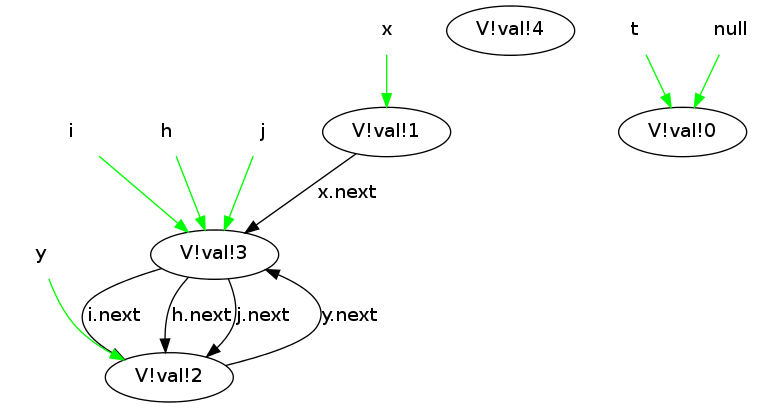
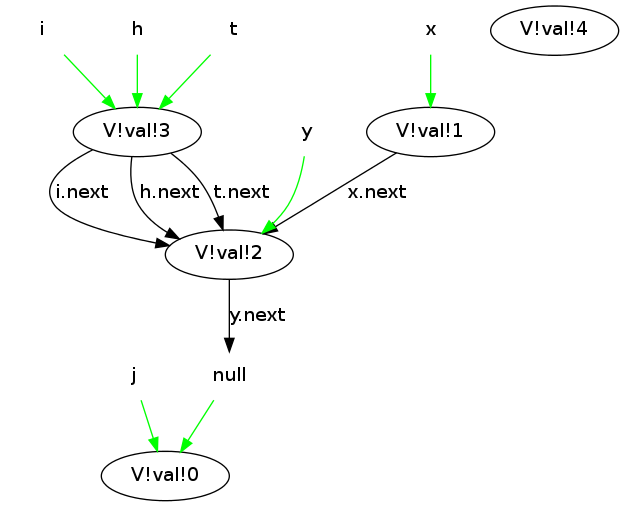
changing implementation to concrete nodes

diff --git a/src/opSemantics.py b/src/opSemantics.py
@@ -17,6 +17,7 @@ def general_stmt(stmt,state):
     else:
         print 'Graph Before statement:', stmt
         draw_graph( 'file1', state )
+        raw_input("Press Enter to continue...")
         
         if curStmt == 'x:=y':
             ass_stmt(stmt,state)
@@ -44,10 +45,8 @@ def general_stmt(stmt,state):
 
 
 def comma_stmt(stmt,state):
-    #print 'comma_stmt', stmt
     for i in stmt.subtrees:
         general_stmt(i,state)
-    #print 'comma end'
 
 
 def if_stmt(stmt,state):
@@ -68,7 +67,6 @@ def if_stmt(stmt,state):
 
 
 def while_stmt(stmt,state):
-    print 'while stmt', stmt
     while_cond   = stmt.subtrees[0]
     #the invariant I is in between here
     print 'the invariant I:=', stmt.subtrees[1]
@@ -80,20 +78,8 @@ def while_stmt(stmt,state):
 
 # x := y
 def ass_stmt(stmt,state):    
-    x   = stmt.subtrees[0].root
-    y   = stmt.subtrees[1].root
-    rel = nstar_relation_map_get(state)
-    for r in rel:
-        a     = r[0]
-        b     = r[1]
-        rel_r = nstar_relation_tuple_value_get(state, r)        
-        if y == b:
-            i  = a                        
-            nstar_relation_value_set(state, i, x, rel_r) #rel[ix] = rel[r]            
-        elif y == a:
-            i  = b          
-            nstar_relation_value_set(state, x, i, rel_r) #rel[xi] = rel[r]
-    
+    x      = stmt.subtrees[0].root
+    y      = stmt.subtrees[1].root
     y_intp = interpretation_get(state,y)
     interpretation_set(state,x,y_intp)
            
@@ -103,42 +89,34 @@ def ass_stmt(stmt,state):
 def ass_new_ptr(stmt,state):
     #print 'new ptr: ', stmt
     x   = stmt.subtrees[0].root    
-    rel = nstar_relation_map_get(state)##TODO need to traverse all states
-    for r in rel:
-        a = r[0]
-        b = r[1]
-        if ((x == a) or (x == b)) and ( a != b ):
-            nstar_relation_tuple_value_set(state, r, False)#rel[r] = False
+    # create new concrete node, which is false to all
+    concrete_intp   = create_node(state)
+    # map x to node
+    interpretation_set(state, x, concrete_intp )
+    
             
     
         
-def p_next_plus(state,n_ptr,s,t):
-    rel    =  state[n_ptr]
-    st     =  s, t    
+def p_next_plus(state,n_ptr,s,t):    
+    rel_st =  nstar_pointer_value_get(state,s,t)    
     is_eq  =  is_equal_intrepretation(state,s,t)
-    result =  rel[st] and (not is_eq)
+    result =  rel_st and (not is_eq)
     return result 
 
 
 # a->b is equiv to (~a)|b
 # if t is the minimal in relation to y: return true
 # else return false
-def p_next(state,n_ptr,s,t):
-    rel         =  state[n_ptr]
+def p_next(state,n_ptr,s,t):    
     result      =  p_next_plus(state,n_ptr,s,t)
     if result:
         rvars       = state_all_real_vars_get(state)
-        print 's and t are different' , rvars, s ,t 
+        #print 's and t are different' , rvars, s ,t 
         for gamma in rvars:
-            lhs       = p_next_plus(state,n_ptr,s,gamma)
-            print lhs, 'pnext plus' , s, gamma
-            gamma_t   = gamma, t            
-            rhs       = rel[gamma_t]
-            #rhs       = rel[t_gamma]
+            lhs       =  p_next_plus(state,n_ptr,s,gamma)
+            rhs       =  nstar_pointer_value_get(state,gamma,t)            
             lhs_implies_rhs = (not lhs) or rhs
-            #lhs_implies_rhs = (lhs and rhs) or ((not lhs)) 
-            result    = result and lhs_implies_rhs
-            print 'lhs ', lhs,'rhs ',rhs, gamma_t       
+            result    = result and lhs_implies_rhs                   
             if not result:
                 print 'for s=',s,'t-is not the minimal node=',t,'gamma=',gamma                
                 return False
@@ -177,7 +155,7 @@ def next_node_get(y,n_ptr,state):
 #then we find the minimal var among them - e.g the one
 #who is not reachable by others.
 def rhs_next_ptr_stmt(stmt,state):
-    print stmt
+    print 'rhs_next_ptr_stmt', stmt
     x     = stmt.subtrees[0].root
     y     = stmt.subtrees[1].root    
     n_ptr = nstar_relation_name_get()
@@ -204,27 +182,30 @@ def lhs_next_ptr_null_stmt(stmt,state):
     #not good enough, next field is of type adt.tree.Tree
     #use str(type(next_field)) to find out
     #rel_name  =  stmt.subtrees[1].root
-    n_ptr = nstar_relation_name_get()    
+    n_ptr     = nstar_relation_name_get()    
     rel       = relation_map_get(state, n_ptr)
+    cx        = interpretation_get(state, x)
     for r in rel:
         a = r[0]
         b = r[1]
-        rel_ax = nstar_relation_value_get(state, a, x)
-        rel_bx = nstar_relation_value_get(state, b, x)
-        rel_r  = nstar_relation_tuple_value_get(state, r)
+        rel_ax = nstar_concrete_value_get(state, a, cx)
+        rel_bx = nstar_concrete_value_get(state, b, cx)
+        rel_r  = nstar_concrete_value_get(state, r)
         res    = rel_r and ( (not rel_ax) or rel_bx )
-        nstar_relation_tuple_value_set(state, r, res )#rel[r] = rel_r & ( ~rel_ax | rel_bx )         
+        nstar_concrete_tuple_value_set(state, r, res )#rel[r] = rel_r & ( ~rel_ax | rel_bx )         
         
                 
              
 # x.next := y       
 def lhs_next_ptr_ass_stmt(stmt,state):
     x = stmt.subtrees[0].root
-    n = stmt.subtrees[1].root
-    y = stmt.subtrees[2].root
+    #n = stmt.subtrees[1].root
+    y = stmt.subtrees[2].root    
+    rel  = nstar_relation_map_get(state)   
+    n_yx = nstar_pointer_value_get(state,y,x)
     
-    rel  = state[n]   
-    n_yx = nstar_relation_value_get(state,y,x)
+    xc   = interpretation_get(state, x)
+    yc   = interpretation_get(state, y)
     
     if n_yx:        
         print stmt, 'Closing circle! state is:' , state
@@ -232,8 +213,8 @@ def lhs_next_ptr_ass_stmt(stmt,state):
     for r in rel:
         a = r[0]
         b = r[1]
-        rel_ax = nstar_relation_value_get(state, a, x)
-        rel_yb = nstar_relation_value_get(state, y, b)        
+        rel_ax = nstar_concrete_value_get(state, a, xc)
+        rel_yb = nstar_concrete_value_get(state, yc, b)        
         rel[r] = rel[r] or ( rel_ax and rel_yb )    
     #changes concrete node, VVal!4 and studff       
 
@@ -279,15 +260,15 @@ def state_all_real_vars_get(state):
     return res
 
 
-
 def relation_map_get(state,rel_name):
     res = state[rel_name]
     return res
 
 #Only works for C(x), monad type relations
 def c_relation_value_get(state,rel_name,x):
-    rel = relation_map_get(state,rel_name)   
-    return rel[x]    
+    rel = relation_map_get(state,rel_name)
+    xc    = interpretation_get(state,x)   
+    return rel[xc]    
 
 def nstar_relation_name_get():
     from trf import N_STAR
@@ -298,25 +279,36 @@ def nstar_relation_map_get(state):
     return relation_map_get(state,nstar_name)    
 
 
-def nstar_relation_tuple_value_get(state,r):
-    rel = nstar_relation_map_get(state)    
-    return rel[r]
+def nstar_concrete_tuple_value_get(state,rc):
+    rel   = nstar_relation_map_get(state)        
+    return rel[rc]
     
     
-def nstar_relation_value_get(state,x,y):
-    rel = nstar_relation_map_get(state)
-    xy  = x,y
-    return rel[xy]
+def nstar_concrete_value_get(state,xc,yc):
+    rel    = nstar_relation_map_get(state)
+    xcyc   = xc,yc
+    return rel[xcyc]
 
 
-def nstar_relation_tuple_value_set(state,r,value):
-    rel     = nstar_relation_map_get(state)
-    rel[r] = value
+def nstar_pointer_value_get(state,x,y):    
+    xc    = interpretation_get(state,x)    
+    yc    = interpretation_get(state,y)    
+    return nstar_concrete_value_get(state,xc,yc)
 
+
+def nstar_concrete_tuple_value_set(state,rc,value):
+    rel     = nstar_relation_map_get(state)    
+    rel[rc] = value
+
+def nstar_pointer_tuple_value_set(state,r,value):    
+    rc      = interpretation_get(state,r)
+    nstar_concrete_tuple_value_set(state,rc,value)
 
 def nstar_relation_value_set(state,x,y,value):
     rel     = nstar_relation_map_get(state)
-    xy      = x,y
+    xc      = interpretation_get(state,x)    
+    yc      = interpretation_get(state,y)
+    xy      = xc,yc
     rel[xy] = value
     
 
@@ -326,7 +318,7 @@ def nstar_relation_value_set(state,x,y,value):
 def interpretation_mapping_get(state):
     return state['map']
 
-def mapping_concrete_get(mapping,v):
+def mapping_concrete_get(mapping,v):    
     return mapping[v]
     
 #returns the concrete node x points on
@@ -334,13 +326,14 @@ def mapping_concrete_get(mapping,v):
 def interpretation_get(state,x):
     v_map = interpretation_mapping_get(state)
     #print v_map
+    #print v_map,x
     return mapping_concrete_get(v_map,x)
 
 def interpretation_set(state,x,p):
     v_map    = interpretation_mapping_get(state)
     v_map[x] = p
     
-#create new interpretation in case of x:=new
+# TODO: create new interpretation in case of x:=new
 
     
 #returns true iff concrete interpretation of x
@@ -350,6 +343,36 @@ def is_equal_intrepretation(state,x,y):
     intrp_y = interpretation_get(state,y)
     return intrp_x == intrp_y
 
+
+def concrete_nodes_get(state):
+    from trf import CONCRETE_DS
+    return state[CONCRETE_DS]
+
+
+#--------------------------------------
+#  Node creation tools
+#--------------------------------------
+#creates new concrete node, and saves it to the state
+#returns the newly created node
+#@static_var("counter", 0)
+def create_node(state):
+    create_node.counter += 1
+    v         = 'V!val!_' + create_node.counter    
+    c_nodes   = concrete_nodes_get(state)
+    nstar_map = nstar_relation_map_get(state)
+
+    vv = v,v
+    nstar_map[vv] = True
+            
+    for r in c_nodes:
+        ab = r, v
+        ba = v, r
+        nstar_map[ab] = False
+        nstar_map[ba] = False
+                
+    c_nodes.append( v )    
+    return v
+    
 
 
 #--------------------------------------

diff --git a/src/trf.py b/src/trf.py
@@ -6,7 +6,8 @@ from   logic.fol.semantics.structure import FolStructure
 from copy import copy
 
 
-N_STAR     = 'n*'    
+N_STAR      =  'n*'    
+CONCRETE_DS =  'concrete_ds'
 
 
 def init_fol_struct( domain,interpretation,state ):
@@ -95,7 +96,7 @@ def create_dummy_state():
     state['C']            = C
     state['map']          = var_concrete_map
     state['rvars']        = rvars
-    state['concrete_ds']  = concrete_ds
+    state[CONCRETE_DS]  = concrete_ds
     
     #init_fol_struct(concrete_ds, var_concrete_map, state)
     print 'dummy_state:', state    
@@ -106,7 +107,7 @@ def create_state():
     print 'Creating state:'
     state_from_model = {}    
     m                = model_get()
-    state_from_model['concrete_ds'] = concrete_ds_get(m)
+    state_from_model[CONCRETE_DS] = concrete_ds_get(m)
     relations  = []
     relations.append( N_STAR );
     relations.append( 'C' );
@@ -114,7 +115,9 @@ def create_state():
     rvars = vars_get(m, relations )
     state_from_model['rvars'] = rvars
     state_from_model['relations']        = relations
-    interpretation_from_model_get( m,relations,rvars,state_from_model)
+    interpretation_from_model_get( m,relations, 
+                                   state_from_model[CONCRETE_DS],
+                                   state_from_model )
     #init_fol_struct(m.domain, m.interpretation, state_from_model)
     print 'State from model:',state_from_model
     print 'Model:', m
@@ -258,6 +261,8 @@ if __name__ == '__main__':
     
     astf = fe.parser(str_to_parse)
 
+
+    
     #print astf
     general_stmt(astf,state)
         

diff --git a/src/concrete_graph.py b/src/concrete_graph.py
@@ -33,8 +33,6 @@ def draw_graph(prefix, state):
         concrete_n = var_map[v]
         g.add_edge(v,concrete_n, color = 'green' )        
         chk = is_equal_intrepretation(state, v, 'null' )
-        print 'is_eq', chk, v
-                    
         if  not chk:                    
             next_concrete_n = next_edge_get(state,v)
             if next_concrete_n != None:
